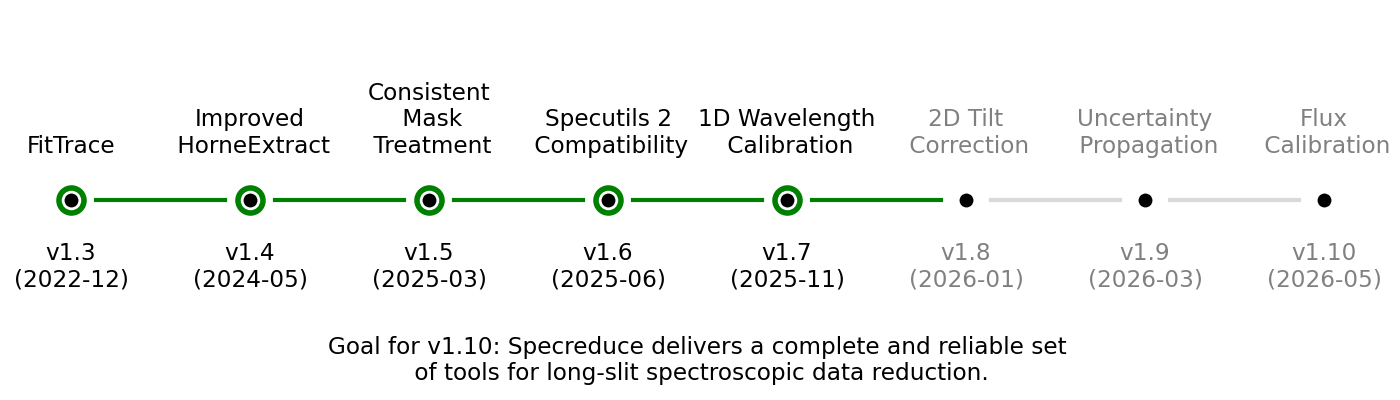
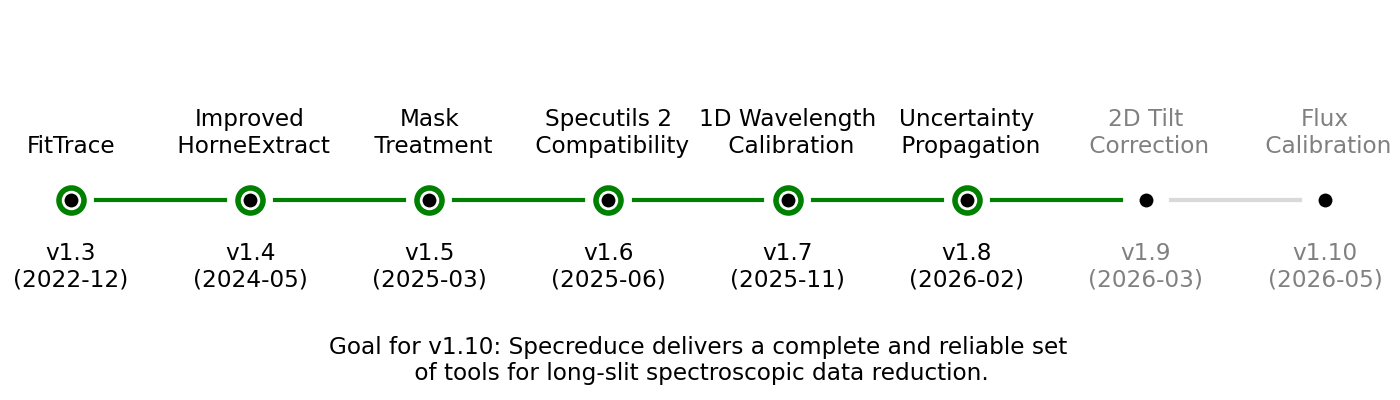
Merge pull request #301 from hpparvi/v1.8
V1.8

Pull request: V1.8
This PR updates the changelog to cover the final changes between specreduce 1.7 and 1.8 and prepares specreduce for the v1.8 release. It also updates the PyPI publishing workflow to use Trusted Publishing, as recommended by @user in #298.

diff --git a/CHANGES.rst b/CHANGES.rst
@@ -1,4 +1,4 @@
-1.8.0 (2026-01-xx)
+1.8.0 (2026-02-24)
 ------------------
 
 New Features
@@ -6,19 +6,33 @@ New Features
 
 - Added uncertainty propagation to ``specreduce.extract.BoxcarExtract`` and
   ``specreduce.extract.HorneExtract``. The extracted spectra have now proper uncertainties.
+  [#295, #296]
+
 - Added uncertainty propagation to ``specreduce.background.Background``. The
   ``bkg_image()``, ``bkg_spectrum()``, ``sub_image()``, and ``sub_spectrum()`` methods
   now return spectra with proper uncertainties. When input image has uncertainty, it is
   propagated using variance formulas appropriate for the chosen statistic. When no
-  uncertainty is provided, it is estimated from the flux values in the background region.
+  uncertainty is provided, it is estimated from the flux values in the background region. [#297]
+
 - Added optional ``sigma`` parameter to ``specreduce.background.Background`` for sigma
   clipping outlier rejection in background estimation. Default is 5.0; set to ``None``
-  to disable.
+  to disable. [#297]
+
+API Changes
+^^^^^^^^^^^
+
+- Removed ``specreduce.compat`` module and migrated all internal code to use
+  ``specutils.Spectrum`` directly. This breaks compatibility with specutils 1.x.
+  Users must update to specutils ≥2.0. [#299]
+
+- Bumped minimum dependency versions: specutils ≥2.0, astropy ≥6.0,
+  scipy ≥1.14, photutils ≥1.11. These increases are required for
+  specutils 2.0 compatibility. [#299]
 
 Other changes
 ^^^^^^^^^^^^^
 
-- Changed to use ``sphinx_astropy.conf.v2`` and revised the documentation.
+- Changed to use ``sphinx_astropy.conf.v2`` and revised the documentation. [#275]
 
 1.7.0 (2025-11-13)
 ------------------